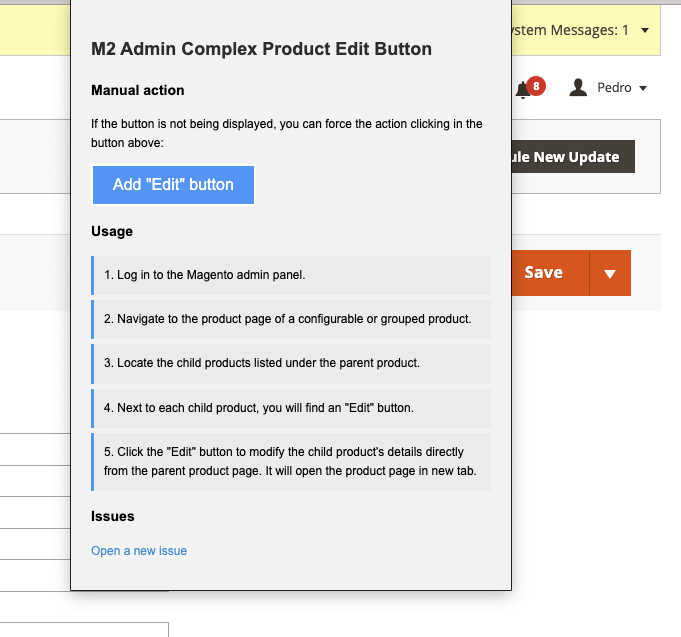
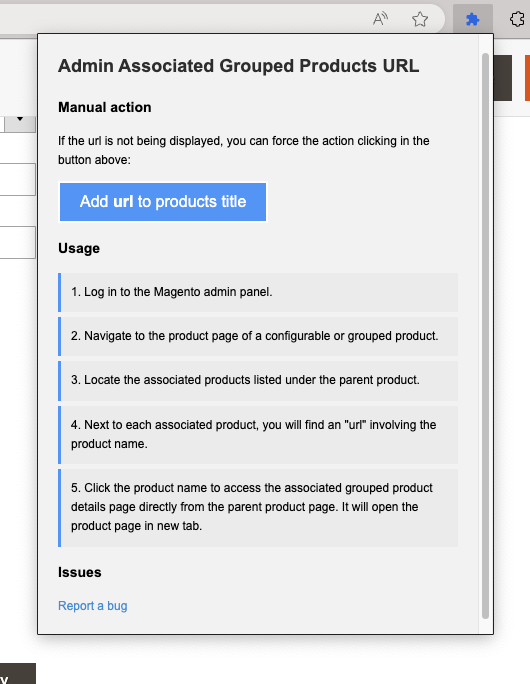
Updating information and script, making the extension exclusive to grouped products

Changed region(s): [[0.0, 0.0, 1.0, 1.0], [0.966, 0.2088, 0.9962, 0.2983], [0.2415, 0.9843, 0.2717, 1.0]]

diff --git a/script.js b/script.js
@@ -1,45 +1,70 @@
-var m2FoundAssociatedProducts = false;
-
 function addM2EditButton() {
-    if (!m2FoundAssociatedProducts) {
-        let rows = document.querySelectorAll('div[data-index="associated"] .admin__dynamic-rows.data-grid tbody tr');
-        const currentUrl = window.location.href;
-        const url = new URL(currentUrl);
-        
-        rows.forEach(function(row) {
-            m2FoundAssociatedProducts = true;
-            let idCell = row.querySelector('span[data-index="id"]');
-            if (idCell) {
-                let id = idCell.innerHTML;
-                let newUrl = url.toString().replace(/\/id\/\d+/, `/id/${id}`);
-                const updatedUrl = newUrl.toString();
-                
-                let button = document.createElement('button');
-                button.textContent = 'Edit';
-                button.classList.add("action-delete");
-                button.onclick = function() {
-                    window.open(updatedUrl, '_blank');
-                };
-                
-                let actionDeleteCell = row.querySelector('[data-index="actionDelete"]');
-                if (actionDeleteCell) {
-                    actionDeleteCell.appendChild(button);
-                }
-            }
-        });
-    }
-}
-
-function checkM2SpinnerVisibility() {
-    var spinner = document.querySelector('[data-role="spinner"]');
+    const rows = document.querySelectorAll('div[data-index="associated"] .admin__dynamic-rows.data-grid tbody tr');
+    const currentUrl = window.location.href;
+    const url = new URL(currentUrl);
     
-    if (spinner && window.getComputedStyle(spinner).display !== 'none') {
-        console.log("visible");
-    } else {
-        console.log("not visible");
-        addM2EditButton()
-        clearInterval(m2ButtonInterval);
-    }
+    rows.forEach(function(row) {
+        m2FoundAssociatedProducts = true;
+        const idCell = row.querySelector('span[data-index="id"]');
+        if (idCell) {
+            const id = idCell.innerHTML;
+            let newUrl = url.toString().replace(/\/id\/\d+/, `/id/${id}`);
+            const updatedUrl = newUrl.toString();
+
+            const productNameCell = row.querySelector('[data-index="name"]');
+            if (productNameCell.querySelector('span[data-index="name"]')) {
+                const productName = productNameCell.querySelector('span[data-index="name"]').innerHTML;
+
+                const link = document.createElement('a');
+                link.textContent = productName;
+                link.href = updatedUrl;
+                link.target = '_blank';
+
+                productNameCell.innerHTML = '';
+                productNameCell.appendChild(link);
+                return true;
+            }
+        }
+    });
+
+    return false;
 }
 
-var m2ButtonInterval = setInterval(checkM2SpinnerVisibility, 1000);
+function tryToAddURL() {
+    // Try to add the edit url
+    const result = addM2EditButton();
+
+    // If was not possible to add the button, check if spinner is invisible, then try again
+    if (!result) {
+        const spinnerVisibility = window.getComputedStyle(document.querySelector('.admin__form-loading-mask')).display !== 'none';
+    
+        if (!spinnerVisibility) {
+            // Only applies if page has associated grouped products
+            if (document.querySelector('div[data-index="associated"]')) {
+                const rows = document.querySelectorAll('div[data-index="associated"] .admin__dynamic-rows.data-grid tbody tr');
+                if (rows && rows.length > 0) {
+                    addM2EditButton();
+                }
+                return true;
+            }
+        }
+    }
+    return false;
+}
+
+function init() {
+    let tries = 0;
+    const limit = 5;
+    const checkIfPageIsLoaded = setInterval(function() {
+        tries++;
+        result = tryToAddURL();
+    
+        // try 5 times, or if screenloader is gone and there is no secction of associated grouped products
+        if (result || limit === tries) {
+            clearInterval(checkIfPageIsLoaded);
+        }
+    }, 2000);
+}
+
+// Init
+init();

diff --git a/popup.html b/popup.html
@@ -61,23 +61,23 @@
 </head>
 <body>
     <div class="container">
-        <h2>M2 Admin Complex Product Edit Button</h2>
+        <h2>Admin Associated Grouped Products URL</h2>
         
         <h3>Manual action</h3>
-        <p>If the button is not being displayed, you can force the action clicking in the button above:</p>
-        <button class="button" id="runScript">Add "Edit" button</button>
+        <p>If the url is not being displayed, you can force the action clicking in the button above:</p>
+        <button class="button" id="runScript">Add <b>url</b> to products title</button>
 
         <h3>Usage</h3>
         <ul>
             <li>1. Log in to the Magento admin panel.</li>
             <li>2. Navigate to the product page of a configurable or grouped product.</li>
-            <li>3. Locate the child products listed under the parent product.</li>
-            <li>4. Next to each child product, you will find an "Edit" button.</li>
-            <li>5. Click the "Edit" button to modify the child product's details directly from the parent product page. It will open the product page in new tab.</li>
+            <li>3. Locate the associated products listed under the parent product.</li>
+            <li>4. Next to each associated product, you will find an "url" involving the product name.</li>
+            <li>5. Click the product name to access the associated grouped product details page directly from the parent product page. It will open the product page in new tab.</li>
         </ul>
 
         <h3>Issues</h3>
-        <p><a href="https://github.com/lima195/chrome-extension-magento2-admin-edit-button-associated-products/issues/new" target="_blank">Open a new issue</a></p>
+        <p><a href="https://github.com/lima195/chrome-extension-magento2-admin-edit-button-associated-products/issues/new" target="_blank">Report a bug</a></p>
 
         <script src="popup.js"></script>
     </div>

diff --git a/README.md b/README.md
@@ -1,15 +1,21 @@
 
 ## About this extension
 
-This is a chrome based extension, that allow the Magento 2 Merchant to add an "Edit" button to all children products of complex products such as Grouped, Configurable, etc... (Associated products).
+This is a chrome based extension, that allow the Magento 2 Merchant to add an "url" link to all associated products of grouped product type. Having the same behaviour as the grouped product type.
+
+## Install
+
+Crhome extension page:
+
+https://chromewebstore.google.com/detail/magento-2-admin-edit-butt/lojhghecokpikhfjgmaoikeajdhodpem?hl=en
 
 ## Usage
 
-1.  Log in to the Magento admin panel.
-2.  Navigate to the product page of a configurable or grouped product.
-3.  Locate the child products listed under the parent product.
-4.  Next to each child product, you will find an "Edit" button.
-5.  Click the "Edit" button to modify the child product's details directly from the parent product page. It will open the product page in new tab
+1. Log in to the Magento admin panel.
+2. Navigate to the product page of a configurable or grouped product.
+3. Locate the associated products listed under the parent product.
+4. Next to each associated product, you will find an "url" involving the product name.
+5. Click the product name to access the associated grouped product details page directly from the parent product page. It will open the product page in new tab.
 
 ## Support
 
